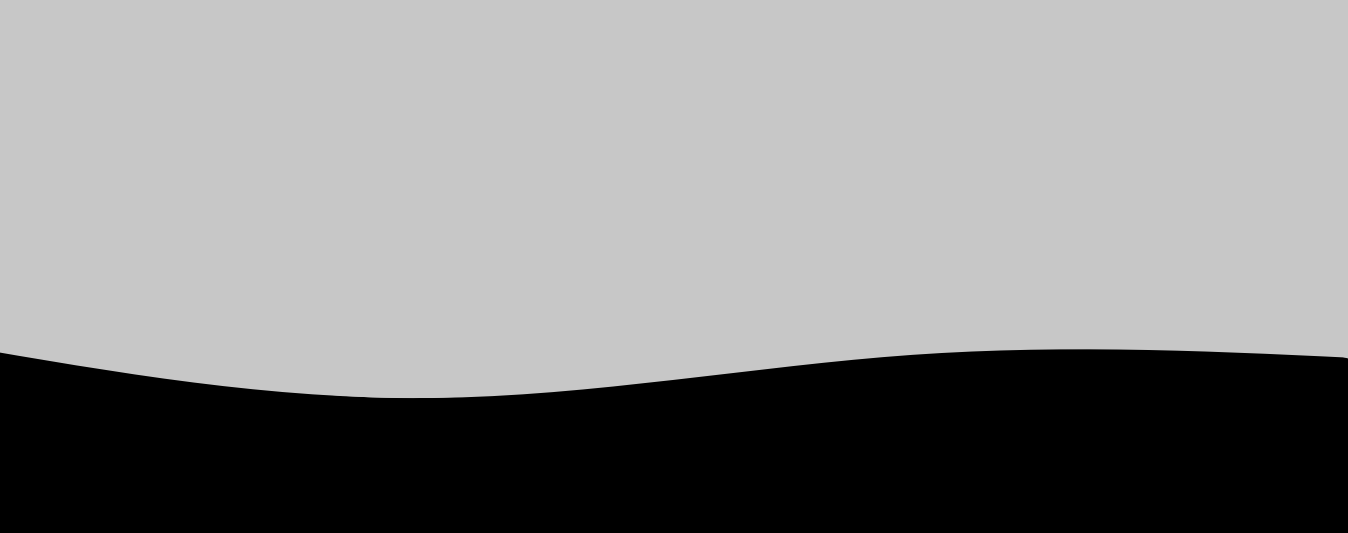
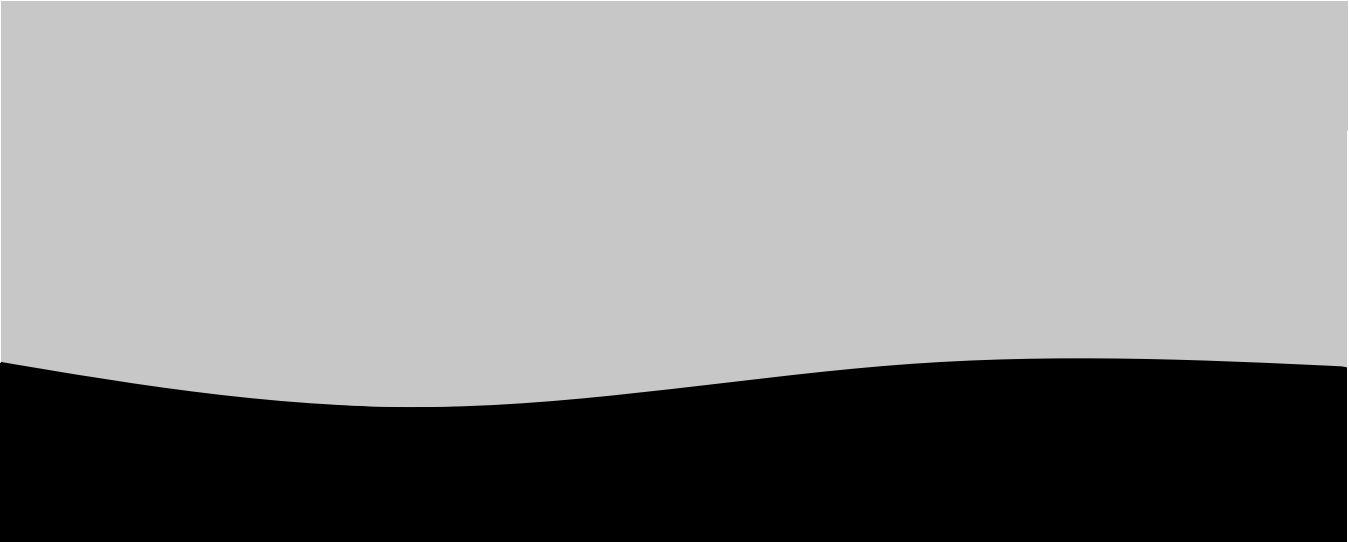
alteração no footer

diff --git a/index.html b/index.html
@@ -231,7 +231,7 @@
     </div>
 
     <div class="centerbox">
-      <h2 class="titulo-footer"> Localização</h2>
+      <h2 class="titulo-footer" id="titulo-local"> Localização</h2>
         <div class="fcontent">
           <iframe src="https://www.google.com/maps/embed?pb=!1m18!1m12!1m3!1d1979.458662722292!2d-34.87456464447401!3d-7.135558971969058!2m3!1f0!2f0!3f0!3m2!1i1024!2i768!4f13.1!3m3!1m2!1s0x7ace810852ae4f1%3A0xaf5445223401f2bb!2sIFPB%20-%20Campus%20Jo%C3%A3o%20Pessoa!5e0!3m2!1spt-BR!2sbr!4v1653481246669!5m2!1spt-BR!2sbr" width="450" height="200" style="border:0;" allowfullscreen="" loading="lazy" referrerpolicy="no-referrer-when-downgrade"></iframe>
         </div>

diff --git a/css/responsive.css b/css/responsive.css
@@ -69,3 +69,27 @@
     flex-direction:column;
   }
 }
+
+@media screen and (max-width:961px) {
+  footer {
+    background-image: url(../imgs/backgrounds/background-footer-961.png);
+  }
+  #titulo-local {
+    padding-top: 20px;
+  }
+}
+@media screen and (max-width:905px) {
+  footer {
+    background-image: url(../imgs/backgrounds/background-footer-905.png);
+  }
+}
+@media screen and (max-width:661px) {
+  footer {
+    background-image: url(../imgs/backgrounds/background-footer-661.png);
+  }
+}
+@media screen and (max-width:542px) {
+  footer {
+    background-image: url(../imgs/backgrounds/background-footer-542.png);
+  }
+}

diff --git a/css/footer.css b/css/footer.css
@@ -1,6 +1,6 @@
 footer {
-  background-color: #c7c7c7;
-  /*background-image: url(../imgs/backgrounds/background-footer.png);*/
+  /* background-color: #c7c7c7; */
+  background-image: url(../imgs/backgrounds/background-footer.png);
   padding: 50px;
   display: flex;
   flex-direction: column;
